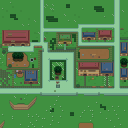
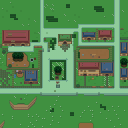
Added storage building at Semos.

Changed region(s): [[0.3125, 0.2188, 0.625, 0.4375]]

diff --git a/src/games/stendhal/server/maps/Semos.java b/src/games/stendhal/server/maps/Semos.java
@@ -43,10 +43,10 @@ public class Semos implements IContent
     buildSemosTempleArea((StendhalRPZone)world.getRPZone(new IRPZone.ID("int_semos_temple")));
     buildSemosLibraryArea((StendhalRPZone)world.getRPZone(new IRPZone.ID("int_semos_library"))); 
     buildSemosStorageArea(); 
-    buildSemosLibraryArea((StendhalRPZone)world.getRPZone(new IRPZone.ID("int_semos_bank"))); 
+    buildSemosBankArea((StendhalRPZone)world.getRPZone(new IRPZone.ID("int_semos_bank"))); 
     }
   
-  private void buildSemosBlacksmithArea(StendhalRPZone zone)
+  private void buildSemosBankArea(StendhalRPZone zone)
     {
     Portal portal=new Portal();
     zone.assignRPObjectID(portal);
